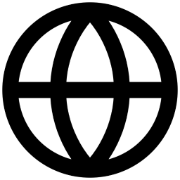
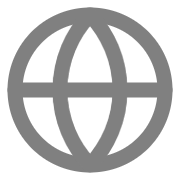
style: add minimal dark scrollbar styling

diff --git a/src/index.css b/src/index.css
@@ -15,6 +15,50 @@ body {
   @apply bg-content/20 text-content;
 }
 
+/* Minimal dark scrollbars everywhere: slim thumb, no track background, no arrows.
+   IMPORTANT: WebKit and the standard properties must not coexist on the same
+   element. Since Chrome 121, when both are present Chromium ignores every
+   ::-webkit-scrollbar rule (arrows reappear). So WebKit drives Chromium/Safari,
+   and the standard properties are scoped to engines that lack ::-webkit support
+   (Firefox) via @supports. */
+::-webkit-scrollbar {
+  width: 6px;
+  height: 6px;
+}
+
+::-webkit-scrollbar-track {
+  background: transparent;
+}
+
+::-webkit-scrollbar-thumb {
+  background-color: #2a2a2a;
+  border-radius: 8px;
+}
+
+::-webkit-scrollbar-thumb:hover {
+  background-color: #333333;
+}
+
+/* Remove the up/down arrow buttons at the ends of the scrollbar. */
+::-webkit-scrollbar-button {
+  display: none;
+  width: 0;
+  height: 0;
+}
+
+/* No background where the two scrollbars meet. */
+::-webkit-scrollbar-corner {
+  background: transparent;
+}
+
+/* Firefox (and any engine without ::-webkit-scrollbar): thin, dark, no arrows. */
+@supports not selector(::-webkit-scrollbar) {
+  * {
+    scrollbar-width: thin;
+    scrollbar-color: #2a2a2a transparent;
+  }
+}
+
 @layer components {
   .section-container {
     @apply max-w-7xl mx-auto px-4 md:px-8 py-16 md:py-24;

diff --git a/index.html b/index.html
@@ -52,10 +52,11 @@
   <link href="https://fonts.googleapis.com/css2?family=Montserrat:wght@300;400;500;600;700&display=swap"
     rel="stylesheet">
 
-  <link rel="apple-touch-icon" sizes="180x180" href="/apple-touch-icon.png">
-  <link rel="icon" type="image/png" sizes="32x32" href="/favicon-32x32.png">
-  <link rel="icon" type="image/png" sizes="16x16" href="/favicon-16x16.png">
-  <link rel="manifest" href="/site.webmanifest">
+  <link rel="icon" type="image/png" href="/favicon-96x96.png" sizes="96x96" />
+  <link rel="icon" type="image/svg+xml" href="/favicon.svg" />
+  <link rel="shortcut icon" href="/favicon.ico" />
+  <link rel="apple-touch-icon" sizes="180x180" href="/apple-touch-icon.png" />
+  <link rel="manifest" href="/site.webmanifest" />
 
   <!-- Structured data: developer profile and products -->
   <script type="application/ld+json">
